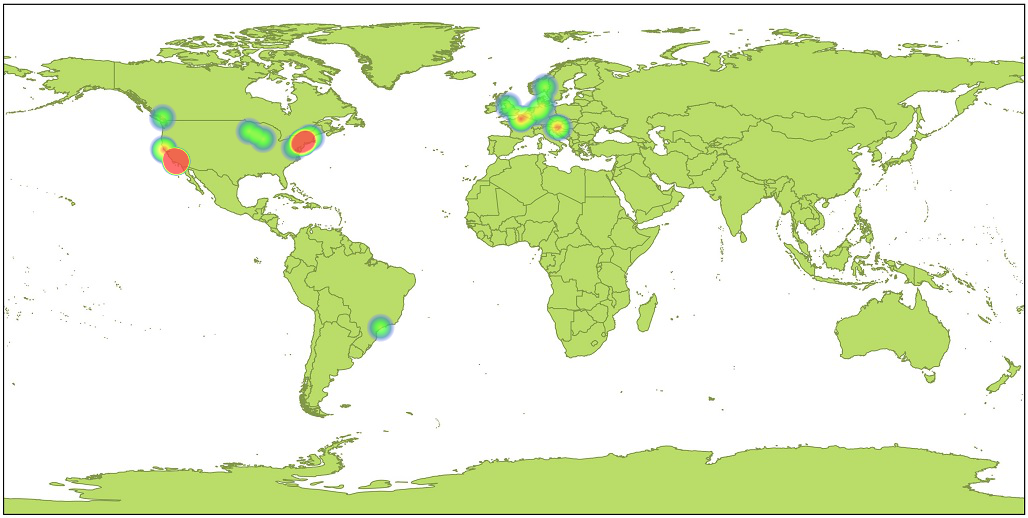
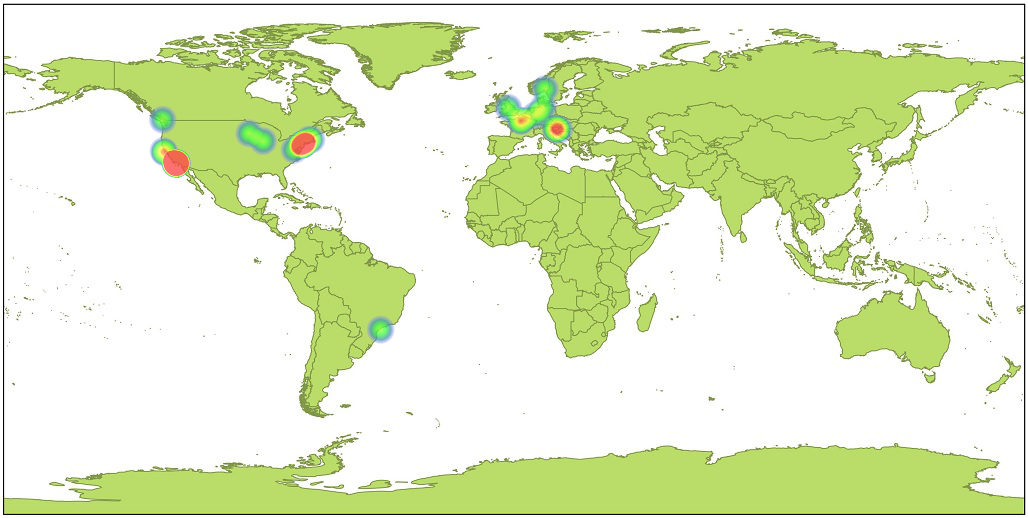
Matter - Amphibios

diff --git a/index.html b/index.html
@@ -133,7 +133,7 @@ code span {
 </header>
 
 <h1>
-37 Greatest Albums of All Time</h1>
+38 Greatest Albums of All Time</h1>
 
 
 
@@ -247,10 +247,13 @@ code span {
 <h2><a href="#Nas-Illmatic" name="Nas-Illmatic">#</a>35 | "Illmatic" — Nas</h2>
 <i>This</i><br><br>
 <a target="_blank" href="https://www.youtube.com/results?search_query=Nas++Illmatic+full+album"> <img src="img/covers/Nas - Illmatic.jpg" alt="cover" height="306"/></a>
-<h2><a href="#Satyricon-NemesisDivina" name="Satyricon-NemesisDivina">#</a>36 | "Nemesis Divina" — Satyricon</h2>
+<h2><a href="#Matter-Amphibios" name="Matter-Amphibios">#</a>36 | "Amphibios" — Matter</h2>
+<i>A fish called Wanda</i><br><br>
+<a target="_blank" href="https://www.youtube.com/results?search_query=Matter++Amphibios"> <img src="img/covers/Matter - Amphibios.jpg" alt="cover" height="306"/></a>
+<h2><a href="#Satyricon-NemesisDivina" name="Satyricon-NemesisDivina">#</a>37 | "Nemesis Divina" — Satyricon</h2>
 <i>Great fusion of garage and studio production</i><br><br>
 <a target="_blank" href="https://www.youtube.com/results?search_query=Satyricon++Nemesis+Divina+full+album"> <img src="img/covers/Satyricon - Nemesis Divina.jpg" alt="cover" height="306"/></a>
-<h2><a href="#Fugazi-Repeater" name="Fugazi-Repeater">#</a>37 | "Repeater" — Fugazi</h2>
+<h2><a href="#Fugazi-Repeater" name="Fugazi-Repeater">#</a>38 | "Repeater" — Fugazi</h2>
 <i>Ultimate day record</i><br><br>
 <a target="_blank" href="https://www.youtube.com/results?search_query=Fugazi++Repeater+full+album"> <img src="img/covers/Fugazi - Repeater.jpg" alt="cover" height="306"/></a>
 <br><br><br><br><hr><h2><a href="#release-dates" name="release-dates">#</a>Release Date — Year</h2>

diff --git a/parse.py b/parse.py
@@ -157,6 +157,9 @@ def getYouTubeLink(albumName):
           + albumName.replace('-', '').replace(' ', '+') + '+full+album"> '
     if 'Dicky B. Hardy' in albumName:
         out = '<a target="_blank" href="https://youtu.be/8iwk7_O97Pw?list=PLaeyhQtn9sJxmrSPAMmmLd4H35jAmFcF1">'
+    if 'Matter' in albumName:
+        out = '<a target="_blank" href="https://www.youtube.com/results?search_query=' \
+          + albumName.replace('-', '').replace(' ', '+') + '"> ' 
     return out
 
 
@@ -319,7 +322,7 @@ def generateHeatMap(albumData, width, height):
         row = []
         for x in range(0, width):
             xx = transposeX(x, width)
-            yy = transposeY(y, height)
+            yy = transposeY(y-2, height)
             heat = getHeat(xx, yy, albumData)
             row.append(heat)
         out.append(row)

diff --git a/README.md b/README.md
@@ -1,4 +1,4 @@
-37 Greatest Albums of All Time
+38 Greatest Albums of All Time
 ===========================
 Albums are rated by how well they sound **when listened to from beginning to the end without interruptions**. That's the reason why there is no <i>Nevermind</i> by Nirvana or <i>Rain Dogs</i> by Tom Waits on the list, since they contain a few songs that ruin the flow of the record. Live albums and compilations are also not included.
 
@@ -152,11 +152,15 @@ _“Electronic beats got lost during production”_
 _“This”_  
   
 <a target="_blank" href="https://www.youtube.com/results?search_query=Nas++Illmatic+full+album"> <img src="img/covers/Nas - Illmatic.jpg" alt="cover" height="306"/></a>
-### 36 | "Nemesis Divina" — Satyricon  
+### 36 | "Amphibios" — Matter  
+_“A fish called Wanda”_  
+  
+<a target="_blank" href="https://www.youtube.com/results?search_query=Matter++Amphibios"> <img src="img/covers/Matter - Amphibios.jpg" alt="cover" height="306"/></a>
+### 37 | "Nemesis Divina" — Satyricon  
 _“Great fusion of garage and studio production”_  
   
 <a target="_blank" href="https://www.youtube.com/results?search_query=Satyricon++Nemesis+Divina+full+album"> <img src="img/covers/Satyricon - Nemesis Divina.jpg" alt="cover" height="306"/></a>
-### 37 | "Repeater" — Fugazi  
+### 38 | "Repeater" — Fugazi  
 _“Ultimate day record”_  
   
 <a target="_blank" href="https://www.youtube.com/results?search_query=Fugazi++Repeater+full+album"> <img src="img/covers/Fugazi - Repeater.jpg" alt="cover" height="306"/></a>
